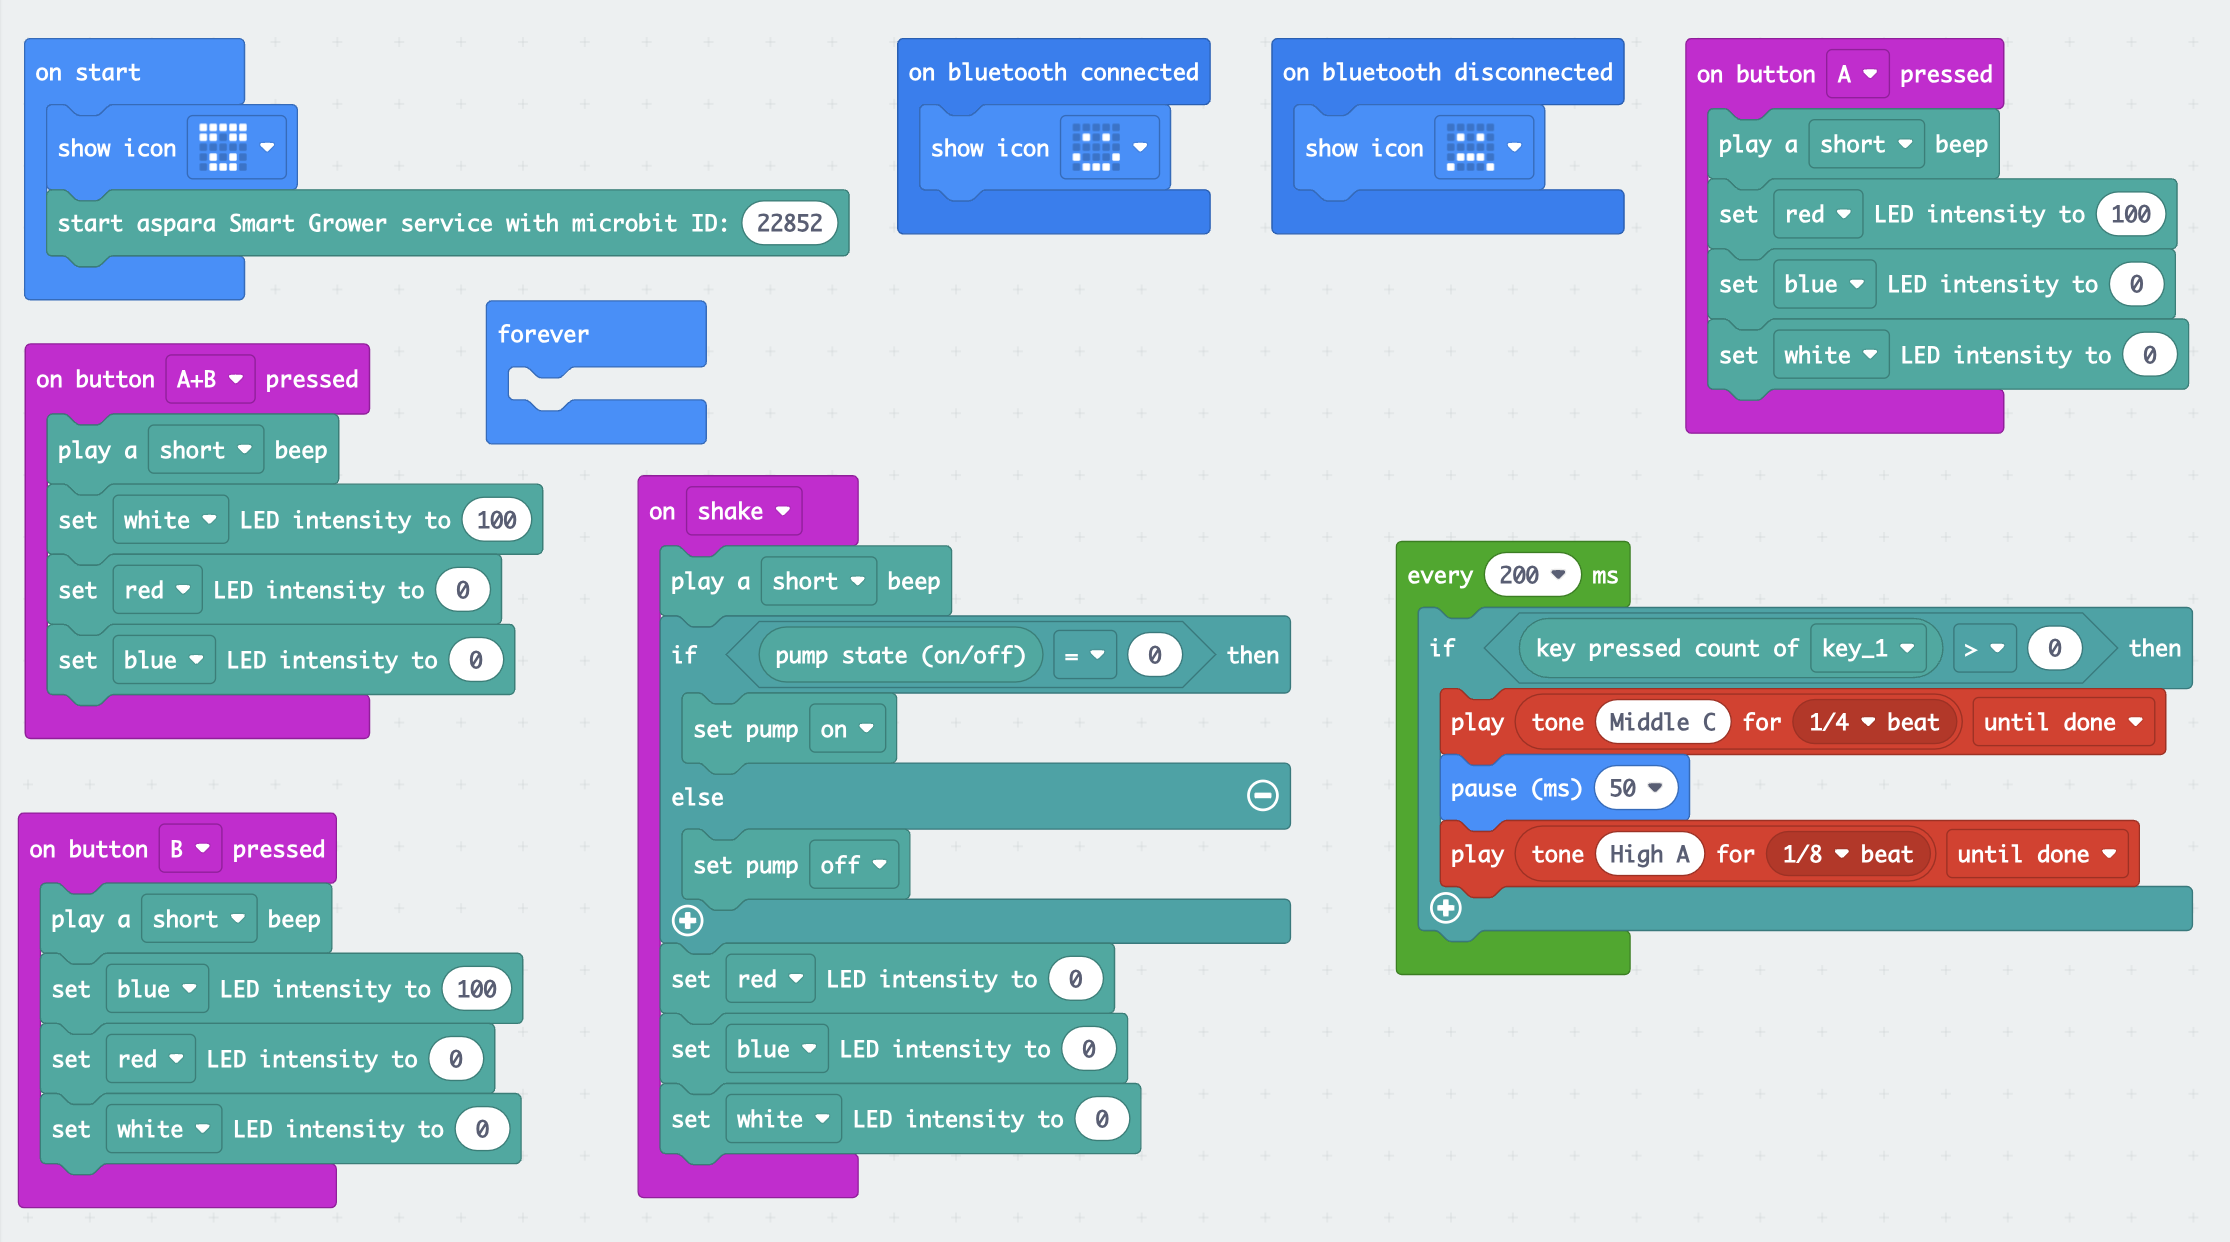
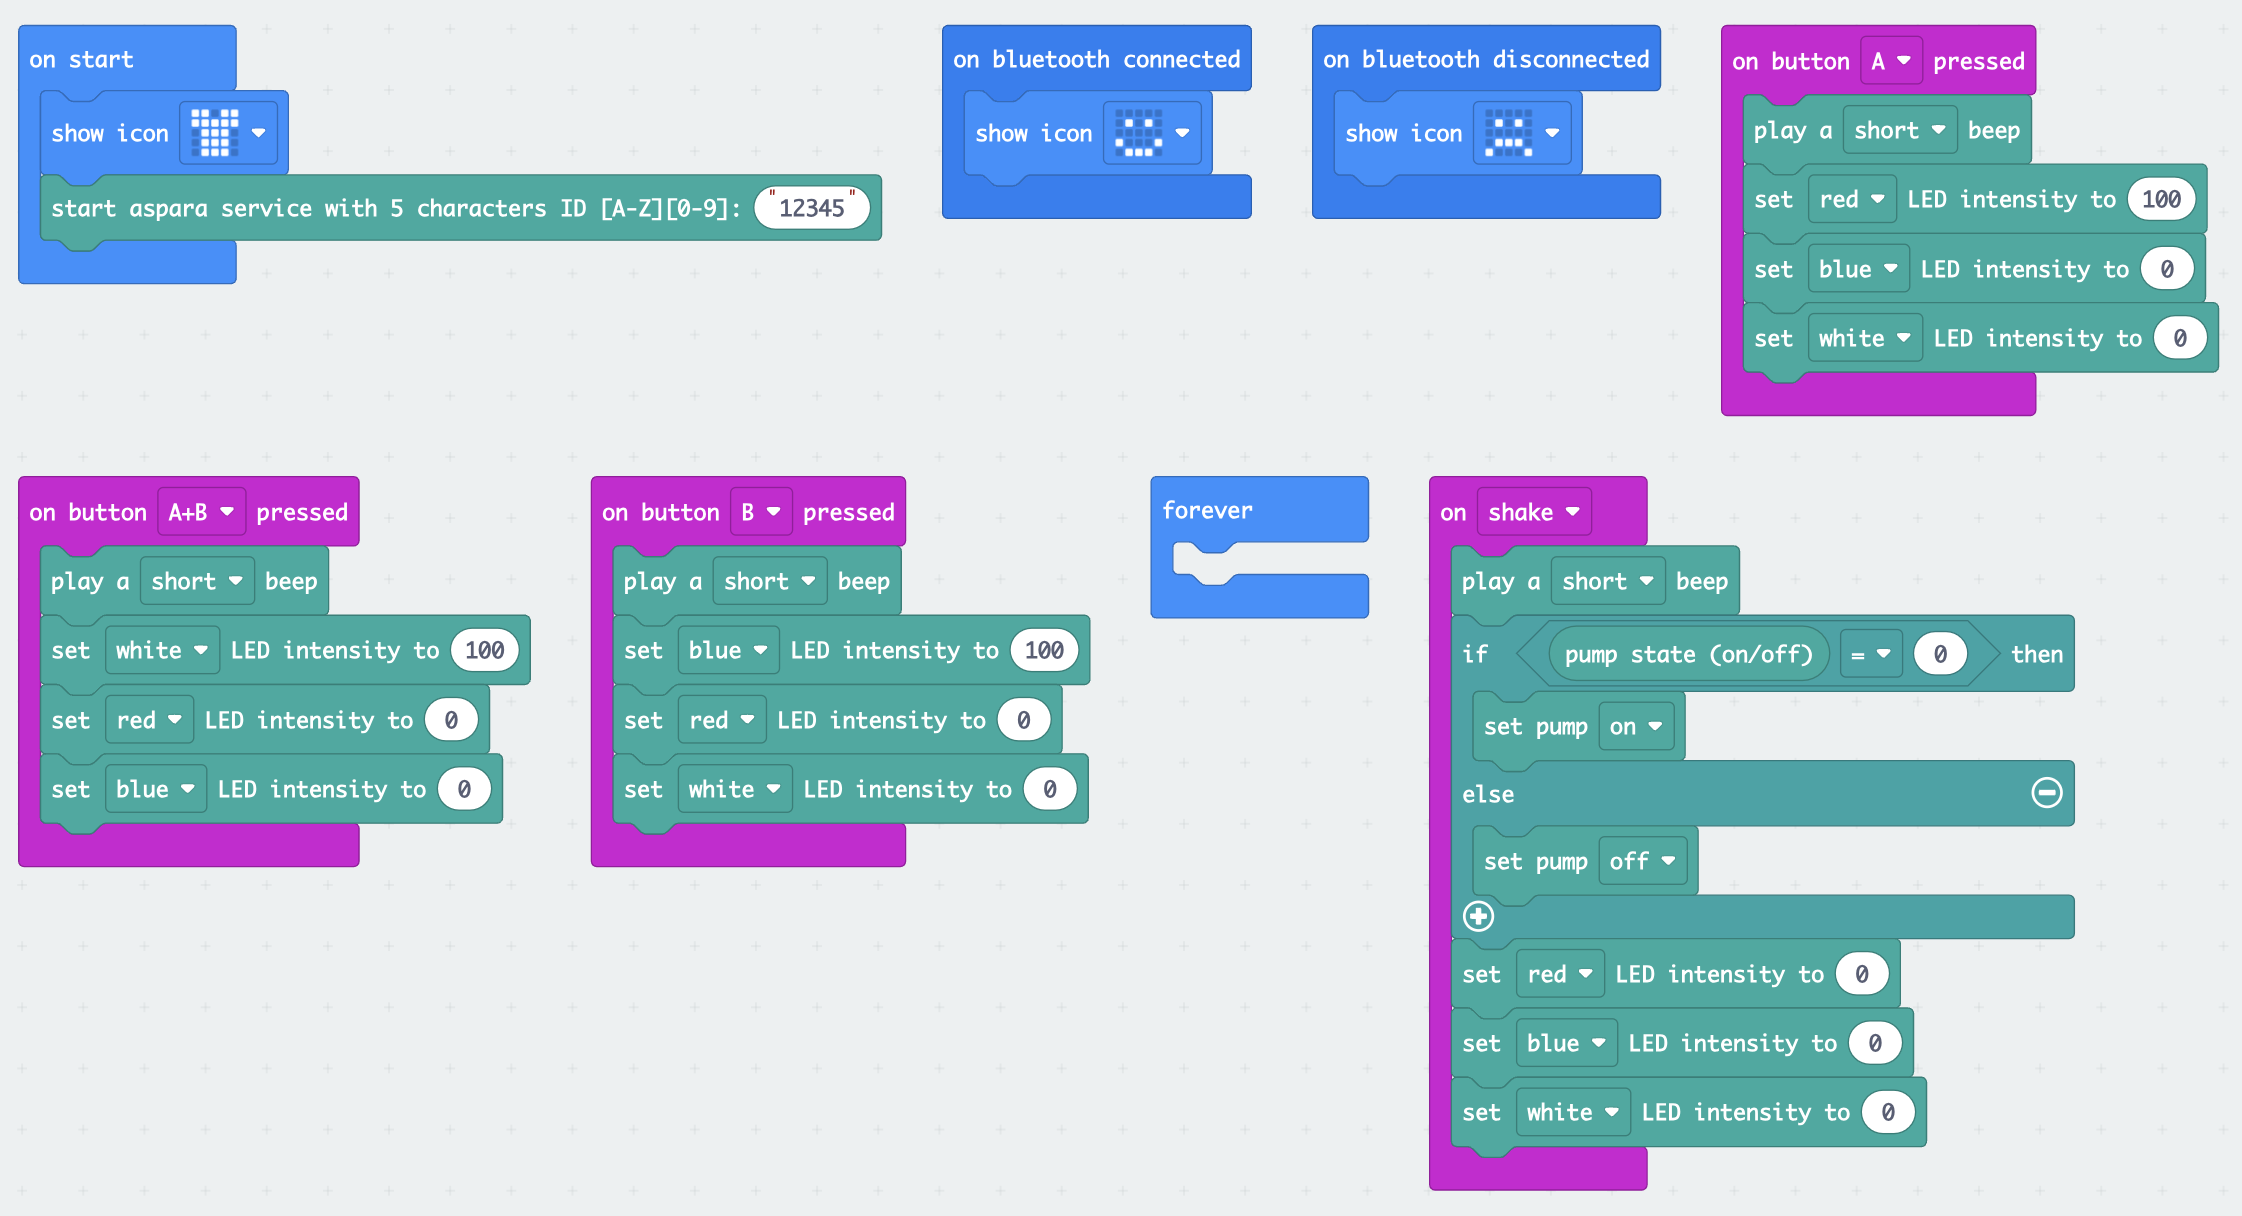
control demo update

diff --git a/examples/aspara-control-demo/main.ts b/examples/aspara-control-demo/main.ts
@@ -33,8 +33,8 @@ input.onGesture(Gesture.Shake, function () {
     asparaSmartGrower.setLEDlight(LED_TYPE.blue, 0)
     asparaSmartGrower.setLEDlight(LED_TYPE.white, 0)
 })
-basic.showIcon(IconNames.Fabulous)
-asparaSmartGrower.startAsparaSmartGrowerService("12345")
+basic.showIcon(IconNames.TShirt)
+asparaSmartGrower.startAsparaSmartGrowerService("22582")
 basic.forever(function () {
 	
 })

diff --git a/examples/aspara-control-demo/README.md b/examples/aspara-control-demo/README.md
@@ -1,7 +1,7 @@
 ## Introduction
 * To demo the use of the control blocks of the <B>aspara Smart Grower</B> MakeCode extension.
 
-    <img src="../../pngs/sample_control_prog_blocks.png" width=1115 height=621>
+    <img src="../../pngs/sample_control_prog_blocks.png" width=1121 height=608>
 ## Control actions
 * Press the "A" button would turn on the "RED" led light.
 * Press the "B" button would turn on the "BLUE" led light.
